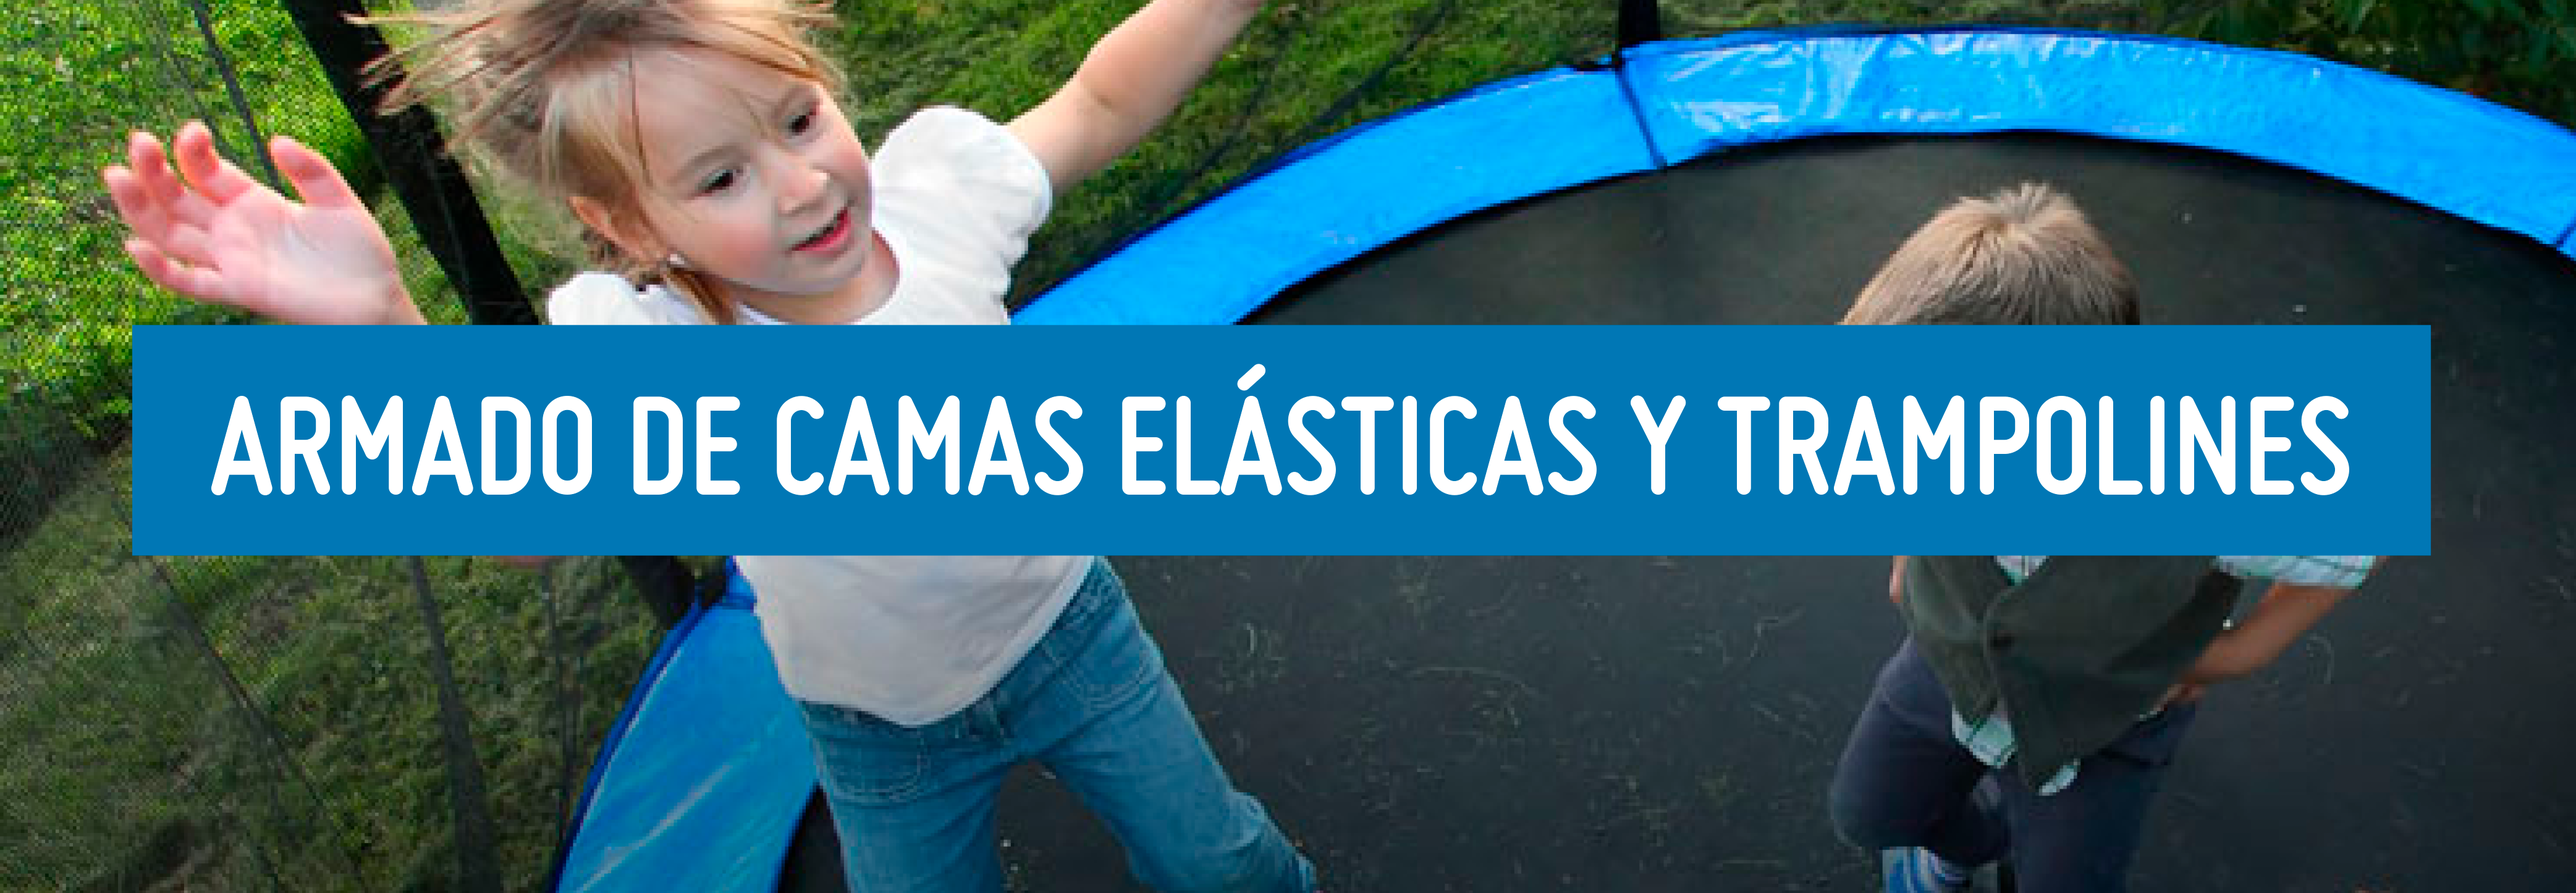
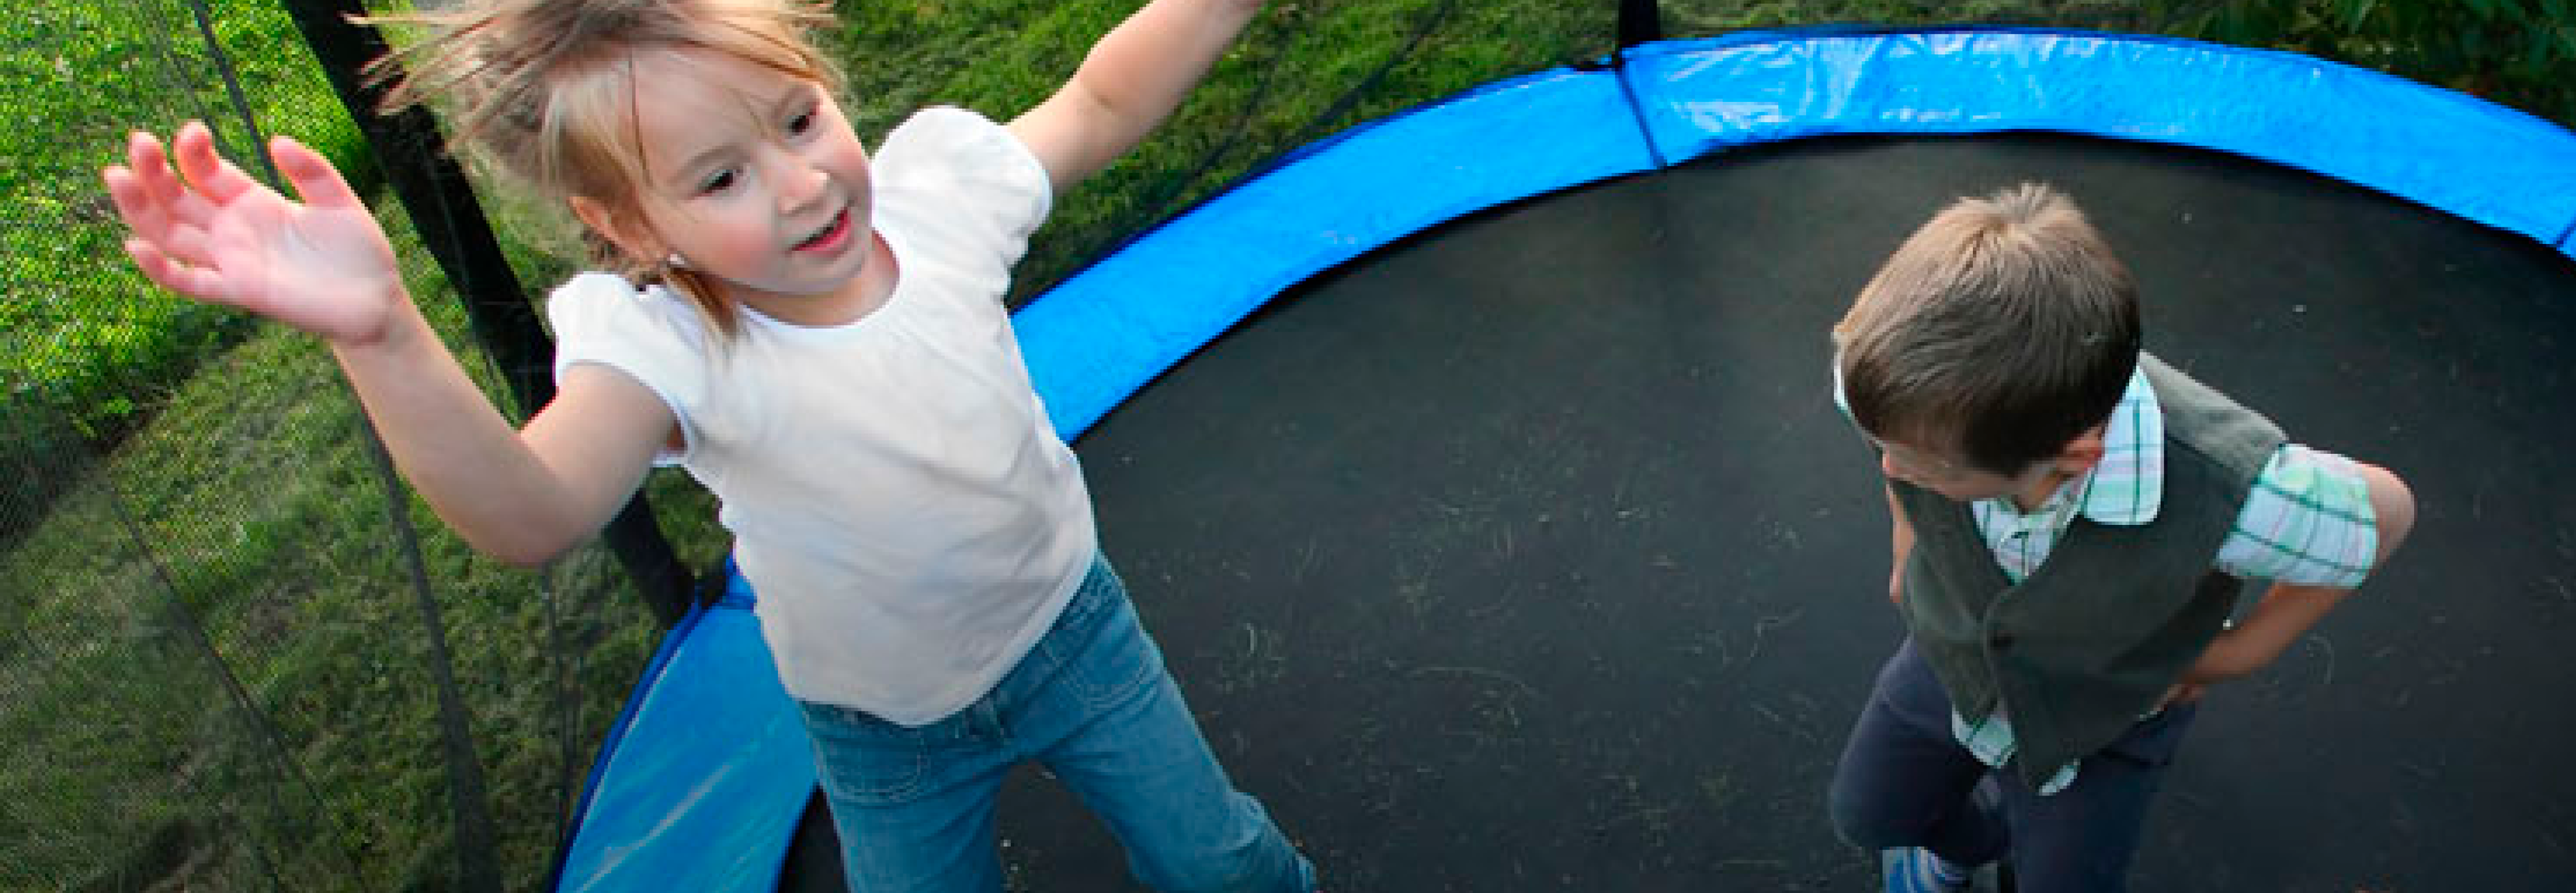
nueva portada

Changed region(s): [[0.0312, 0.3423, 0.9667, 0.6224]]

diff --git a/index.html b/index.html
@@ -1,5 +1,6 @@
 <!DOCTYPE html>
 <html>
+
 <head>
   <meta charset="UTF-8">
   <meta name="viewport" content="width=device-width, initial-scale=1.0">
@@ -16,6 +17,7 @@
     overflow: hidden;
   }
 </style>
+
 <body>
   <main id="main" class="newMainSection">
     <div class="container">
@@ -23,9 +25,14 @@
         <div class="wrapper-servicios">
           <div class="header-servicios">
             <div class="row">
+              <div class="portada-movil portada-img hidden-sm hidden-lg txt-center">
+                <div class="txt-portada txt-center">ARMADO DE CAMAS ELASTICAS Y TRAMPOLINES</div>
+              </div>
+              <div class="portada-desktop portada-img hidden-xs hidden-sm txt-center">
+                <div class="txt-portada txt-center">ARMADO DE CAMAS ELASTICAS Y TRAMPOLINES</div>
+
+              </div>
               <div class="text-center col-md-12 col-xs-12">
-                <img class="img-responsive visible-xs " src="assets/img/portada-movil.png" alt="Barner Servicios movil">
-                <img class="img-responsive hidden-xs " src="assets/img/portada-desktop.png" alt="Barner servicios desktop">
                 <div class="txt-header text-center">
                   <p>Los <span class="txt-blue title-header title-desktop">SERVICIOS</span> se realizaran en maximo <span class="txt-blue title-header title-desktop "> 48 HRS.</span> </p>
                   <p>posterior a la entrega del producto</p>

diff --git a/assets/css/main.css b/assets/css/main.css
@@ -58,14 +58,32 @@
   color: #2c76b1;
   font-size: 1.2em;
 }
-
+.portada-movil{
+background-image: url(../img/portada-movil.png);
+}
+.portada-desktop{
+background-image: url(../img/portada-desktop.png);
+}
+.portada-img {
+    position: relative;
+    display: flex;
+    align-items: center;
+    justify-content: center;
+    width: 100%;
+    height: 150px;
+    background-repeat: no-repeat;
+    background-size: cover;
+}
 ul.list-subcat {
   list-style: none;
   padding: 0;
 }
 
 .plus {
-  color: #fff;
+  display: block;
+  font-size: 32px;
+  font-family: monospace;
+  top: 0;
 }
 
 .return {
@@ -184,12 +202,32 @@ a:focus, a:active, a:hover {
 .more-cat {
   font-size: 15px;
 }
+.glyphicon {
+}
+.txt-portada{
+  background-color: #2c76b1;
+  color: #fff;
+  font-family: "misobold";
+  display: flex;
+  justify-content: center;
+  align-items: center;
+  font-size: 18px;
+  padding: 13px 7px;
+}
+
 
 /*Desktop and md-lg Desktop 125+ 110+ 100+>25*/
 
 @media screen and (min-width: 992px) {
   li.sub-cat.text-center {
     font-size: 15px;
+  }
+  .txt-portada {
+    font-size: 50px;
+    padding: 29px 33px;
+}
+  .portada-img {
+      height: 400px;
   }
   .cont-item span {
     padding: 30px 20px 10px;
